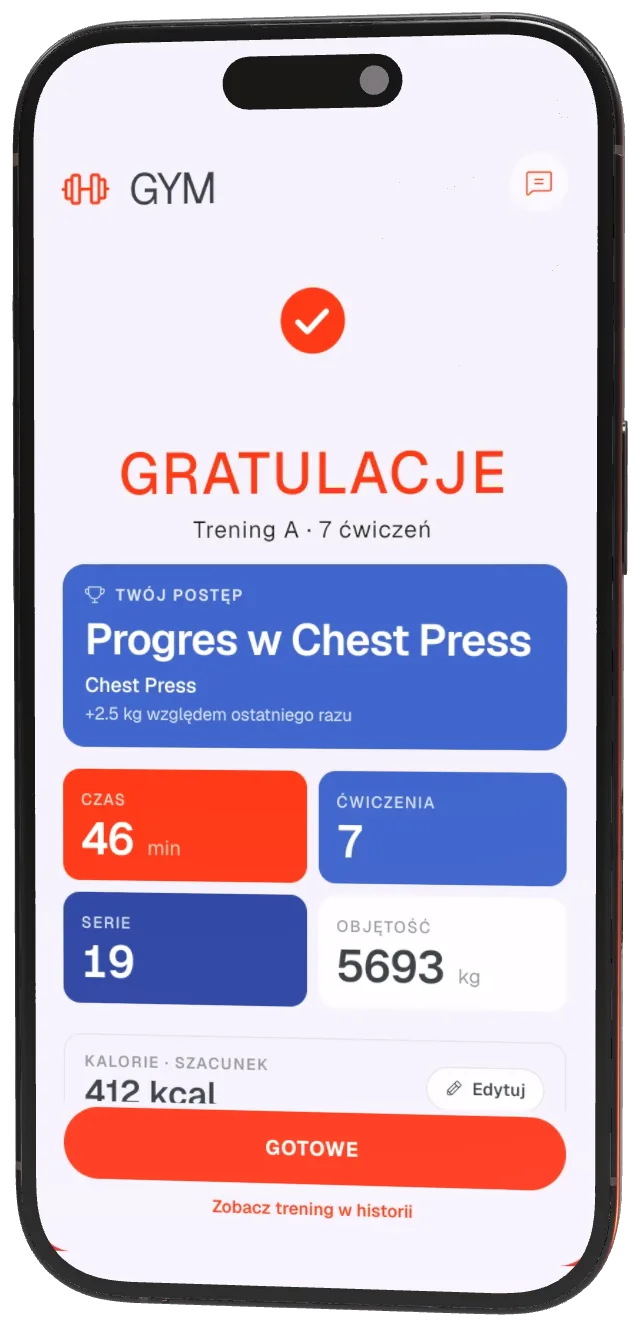
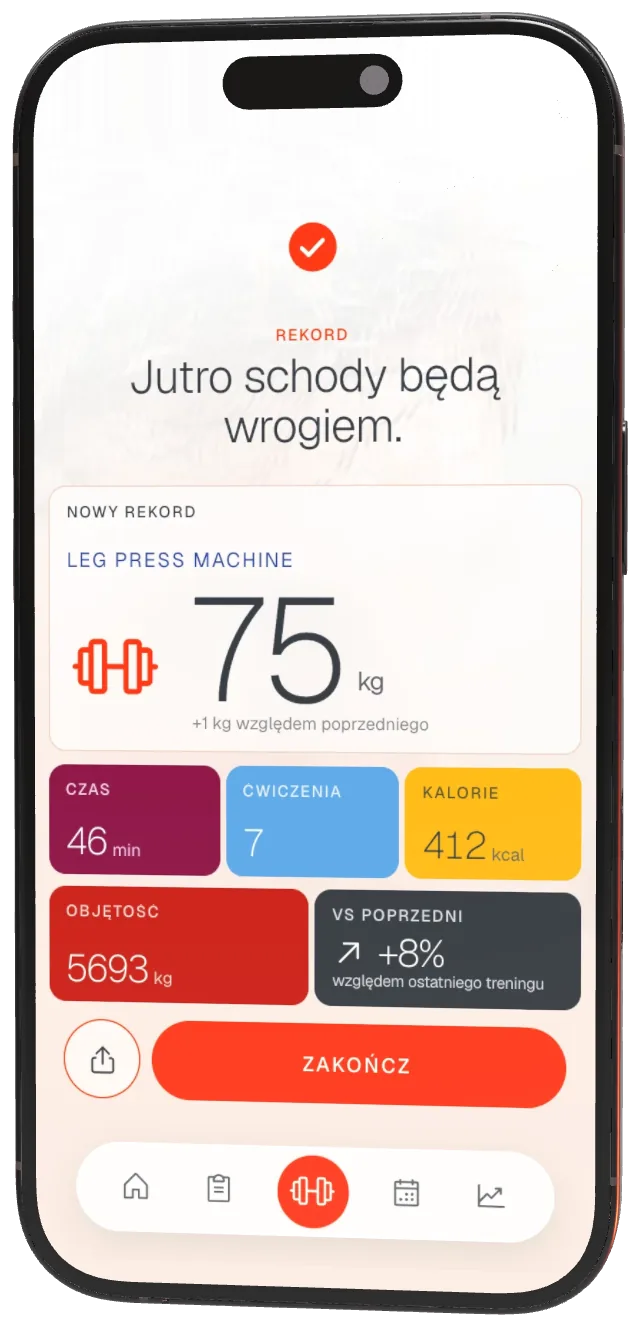
Landing: aktualne ekrany (4.69.0) w sekcji z dwoma telefonami i w karuzeli, nowe opisy slajdów

diff --git a/landing/index.html b/landing/index.html
@@ -637,8 +637,8 @@ details > div{padding:0 60px 26px 0; color:var(--m-muted); font-size:16px;}
       <p>Po lewej wpisujesz serie, po prawej widzisz wynik. Mekkio porównuje każdą serię z poprzednim treningiem i pokazuje, co się zmieniło, zaraz po zapisaniu.</p>
     </div>
     <div class="split-phones">
-      <div class="split-phone l"><img class="phone-img" src="img/r-split-l.webp" data-screen="img/scr-exercise-popup.webp" alt="Okno logowania serii: ciężar i powtórzenia dla trzech serii Chest Press" width="643" height="1348" loading="lazy"></div>
-      <div class="split-phone r"><img class="phone-img" src="img/r-split-r.webp" data-screen="img/scr-gym-finish.webp" alt="Ekran po zapisaniu treningu: Gratulacje, progres w Chest Press o 2,5 kg, 19 serii, objętość 5693 kg" width="643" height="1348" loading="lazy"></div>
+      <div class="split-phone l"><img class="phone-img" src="img/r-split-l.webp" data-screen="img/scr-logset.webp" alt="Logowanie serii: Incline Chest, ciężar 27 kg ustawiany na tarczy, powtórzenia i lista trzech serii" width="643" height="1348" loading="lazy"></div>
+      <div class="split-phone r"><img class="phone-img" src="img/r-split-r.webp" data-screen="img/scr-gym-finish.webp" alt="Ekran po treningu: nowy rekord 75 kg w Leg Press Machine, 46 min, 7 ćwiczeń, 412 kcal, objętość 5693 kg, +8% względem poprzedniego treningu" width="643" height="1348" loading="lazy"></div>
     </div>
     <canvas class="gl-canvas split-gl" id="splitGL" aria-hidden="true"></canvas>
   </div>
@@ -654,11 +654,11 @@ details > div{padding:0 60px 26px 0; color:var(--m-muted); font-size:16px;}
 
     <div class="caro rv" id="caro" aria-roledescription="karuzela" aria-label="Ekrany aplikacji">
       <ul class="caro-track" id="caroTrack">
-        <li class="caro-slide"><img class="phone-img" src="img/r-caro-0.webp" alt="Pulpit: podsumowanie tygodnia, plan na dziś, rekord i postęp tygodniowy" width="640" height="1327" loading="lazy"></li>
-        <li class="caro-slide"><img class="phone-img" src="img/r-caro-1.webp" alt="Trening: plan na dziś, przycisk Powtórz ostatni trening i kafle ćwiczeń" width="640" height="1327" loading="lazy"></li>
-        <li class="caro-slide"><img class="phone-img" src="img/r-caro-2.webp" alt="Okno logowania serii: ciężar i powtórzenia dla trzech serii Chest Press ze wskazówką" width="640" height="1327" loading="lazy"></li>
-        <li class="caro-slide"><img class="phone-img" src="img/r-caro-3.webp" alt="Ekran Gratulacje po zapisanym treningu" width="640" height="1327" loading="lazy"></li>
-        <li class="caro-slide"><img class="phone-img" src="img/r-caro-4.webp" alt="Dziennik: kalendarz miesiąca z zaznaczonymi treningami" width="640" height="1327" loading="lazy"></li>
+        <li class="caro-slide"><img class="phone-img" src="img/r-caro-0.webp" alt="Pulpit: plan na dziś z przyciskiem Start, podsumowanie tygodnia 14 658 kg, rekord i odznaka" width="640" height="1327" loading="lazy"></li>
+        <li class="caro-slide"><img class="phone-img" src="img/r-caro-1.webp" alt="Trening: Fullbody Workout, licznik czasu, Powtórz ostatni trening, rozgrzewka i kafle ćwiczeń" width="640" height="1327" loading="lazy"></li>
+        <li class="caro-slide"><img class="phone-img" src="img/r-caro-2.webp" alt="Logowanie serii: ciężar na tarczy, powtórzenia plusem i minusem, lista serii" width="640" height="1327" loading="lazy"></li>
+        <li class="caro-slide"><img class="phone-img" src="img/r-caro-3.webp" alt="Ekran po treningu: nowy rekord, czas, ćwiczenia, kalorie, objętość i porównanie z poprzednim treningiem" width="640" height="1327" loading="lazy"></li>
+        <li class="caro-slide"><img class="phone-img" src="img/r-caro-4.webp" alt="Historia: kalendarz października z zaznaczonymi treningami i podsumowaniem wybranego dnia" width="640" height="1327" loading="lazy"></li>
         <li class="caro-slide"><img class="phone-img" src="img/r-caro-5.webp" alt="Postępy: pierścień tygodnia, kalorie, masa ciała i objętość od początku roku" width="640" height="1327" loading="lazy"></li>
       </ul>
       <div class="wrap">
@@ -978,11 +978,11 @@ document.documentElement.classList.add('js');
 
   /* ---- screens carousel (autoplay every 3 s, pausable) ---- */
   var CAPS = [
-    ['Pulpit','Tydzień na jednym ekranie','Podsumowanie tygodnia, plan na dziś i ostatni rekord widzisz zaraz po otwarciu apki.'],
-    ['Trening','Plan na dziś','Otwierasz Trening i od razu wiesz, co dziś robisz. Ćwiczenie zajęte? Ikonka w rogu kafla pokaże zamiennik.'],
-    ['Seria po serii','Wpisujesz, nie liczysz','Ciężar i powtórzenia w kilku stuknięciach. Wskazówka na dziś i Twoja notatka czekają nad polami.'],
-    ['Po treningu','Wynik od razu','Po zapisaniu widzisz, gdzie się poprawiłeś, czy padł rekord i ile mniej więcej spaliłeś.'],
-    ['Dziennik','Cały miesiąc w kalendarzu','Zrobione, zaplanowane i przepadłe treningi. Stuknij dzień, żeby zobaczyć szczegóły.'],
+    ['Pulpit','Tydzień na jednym ekranie','Plan na dziś startujesz jednym stuknięciem. Obok podsumowanie tygodnia, ostatni rekord i odznaki.'],
+    ['Trening','Plan na dziś','Rozgrzewka, ćwiczenia z planu i czas treningu na jednym ekranie. Ćwiczenie zajęte? Ikonka w rogu kafla pokaże zamiennik.'],
+    ['Seria po serii','Wpisujesz, nie liczysz','Ciężar ustawiasz na tarczy, powtórzenia plusem i minusem. Seria zapisana, lecisz dalej.'],
+    ['Po treningu','Wynik od razu','Od razu widzisz, czy padł rekord, ile to trwało, ile spaliłeś i jak wypadłeś na tle poprzedniego treningu.'],
+    ['Historia','Cały miesiąc w kalendarzu','Zrobione, zaplanowane i przepadłe treningi. Stuknij dzień, żeby zobaczyć szczegóły.'],
     ['Postępy','Postęp, który widać','Pierścień tygodnia, kalorie, masa ciała i objętość od początku roku.']
   ];
   var DELAY = 3000;
